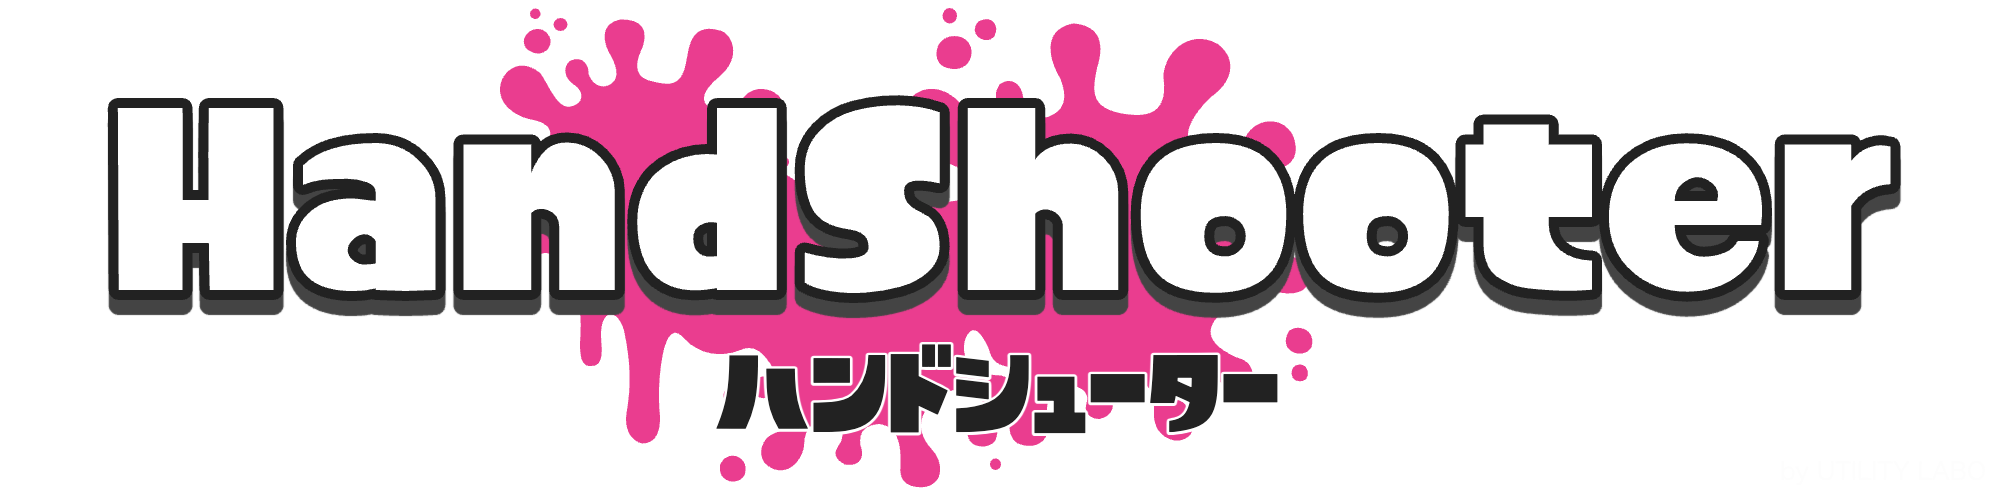
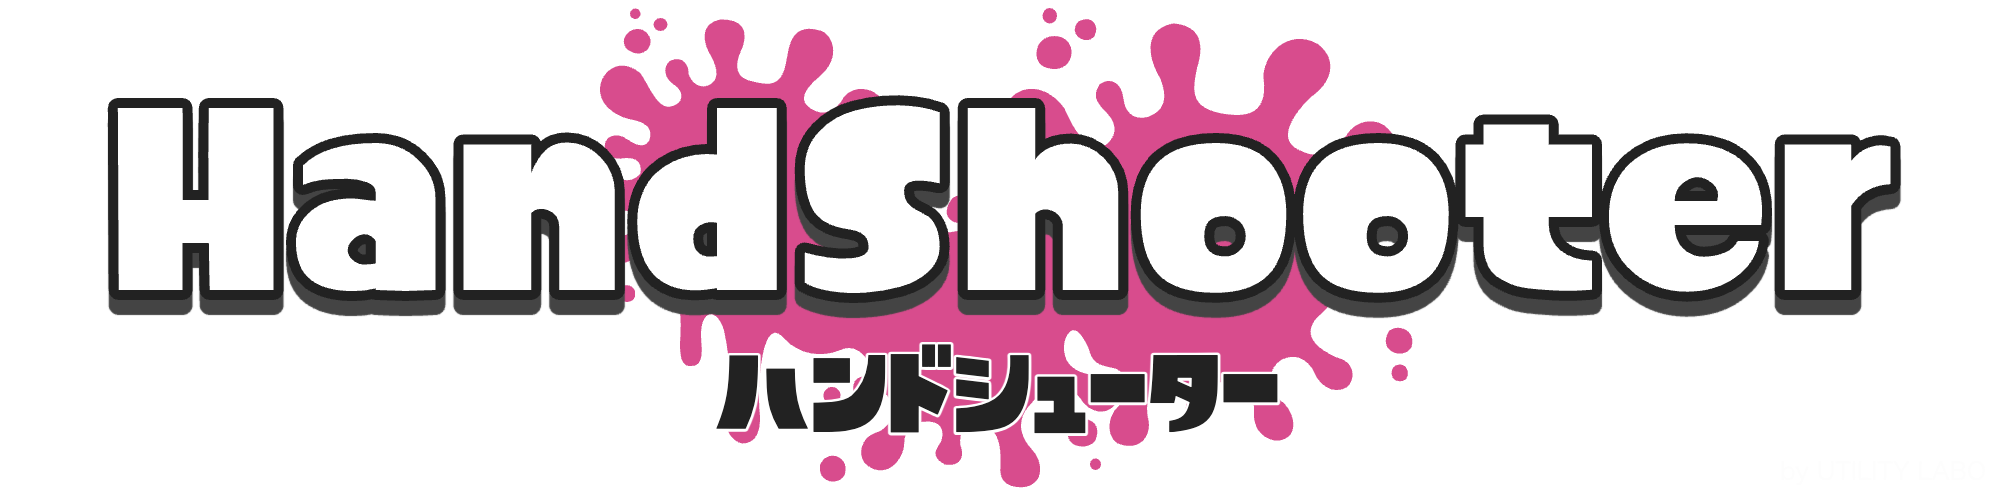
background()の作成

diff --git a/main.py b/main.py
@@ -4,6 +4,7 @@ import numpy as np
 
 from game import game
 from home import home
+
 import utils.game_utils as game_utils
 import utils.image_utils as image_utils
 
@@ -32,22 +33,20 @@ def main():
     cv2.namedWindow(window_name, cv2.WND_PROP_FULLSCREEN)
     cv2.setWindowProperty(window_name, cv2.WND_PROP_FULLSCREEN, cv2.WINDOW_FULLSCREEN)
 
-    # 背景画像とタイトル画像の読み込み
-    background = cv2.imread("src/background.png")
-    background = cv2.resize(background, window_size)
+    # タイトル画像の読み込み
     rand = np.random.randint(0, 4)
     title_image_path = f'src/title/{rand}.png'
     title_image = cv2.imread(title_image_path, cv2.IMREAD_UNCHANGED)
     title_image = image_utils.resize_with_height(title_image, int(window_size[1]/4))
 
     # ホーム画面
-    home(window_name, window_size, background, title_image)
+    home(window_name, window_size, title_image)
 
     # ゲームの開始
     game(window_name, mp_info, title_image)
 
     # 終了処理
-    home(window_name, window_size, background, title_image)
+    home(window_name, window_size, title_image)
 
 
 if __name__ == "__main__":

diff --git a/home.py b/home.py
@@ -3,8 +3,8 @@ import cv2
 import utils.image_utils as image_utils
 
 # ホーム画面
-def home(window_name, window_size, background, title_image):
-    home_image = background.copy()
+def home(window_name, window_size, title_image):
+    home_image = background(window_size)
     press_any_key_image = cv2.imread("src/press_any_key_to_start.png", cv2.IMREAD_UNCHANGED)
     press_any_key_image = image_utils.resize(press_any_key_image, 0.8)
 
@@ -17,3 +17,14 @@ def home(window_name, window_size, background, title_image):
         # 任意のキーが押されたら画面を切り替える
         if cv2.waitKey(0) & 0xFF:
             break
+
+def background(window_size):
+    background = cv2.imread("src/background/0/squid.png")
+    background = cv2.resize(background, window_size)
+    # squid = cv2.imread("src/background/0/mask.png", cv2.IMREAD_UNCHANGED)
+    # squid = cv2.resize(squid, window_size)
+    
+    # image_utils.put_image(background, squid, (int(window_size[0]/2), int(window_size[1]/2)))
+
+    return background
+

diff --git a/README.md b/README.md
@@ -33,3 +33,17 @@ python main.py
 ### キャリブレーションで決定する変数
 
 - 人差し指の何倍の長さを射撃位置にするのか
+
+## Color
+
+- ![#D84C8D](https://placehold.co/15x15/D84C8D/D84C8D.png) `#D84C8D`
+- ![#F9FF5C](https://placehold.co/15x15/F9FF5C/F9FF5C.png) `#F9FF5C`
+- ![#81D059](https://placehold.co/15x15/81D059/81D059.png) `#81D059`
+- ![#2F22DB](https://placehold.co/15x15/2F22DB/2F22DB.png) `#2F22DB`
+- ![#9C2BF6](https://placehold.co/15x15/9C2BF6/9C2BF6.png) `#9C2BF6`
+
+
+## Credit
+
+- サムネ素材館
+https://samune-sozaikan.com/
